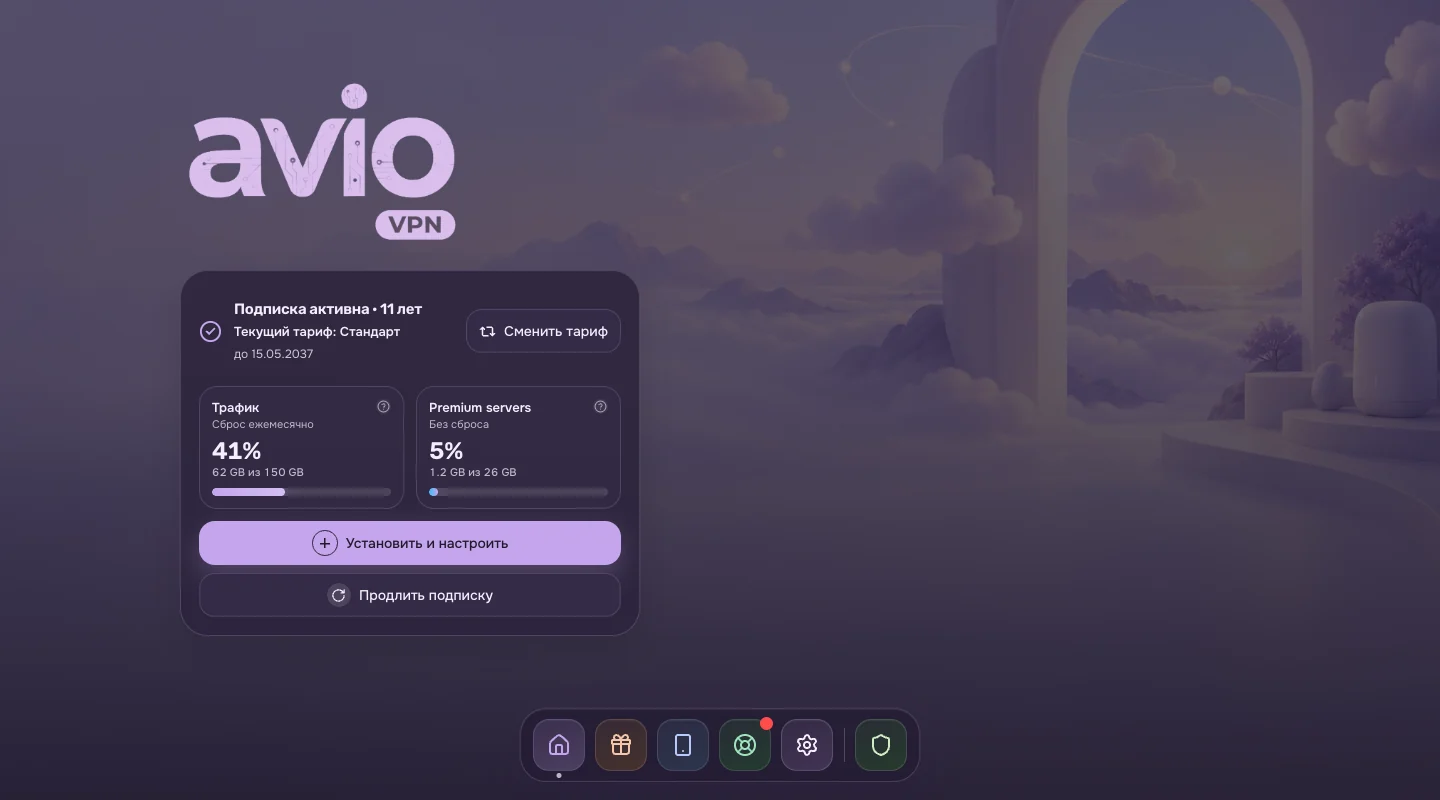
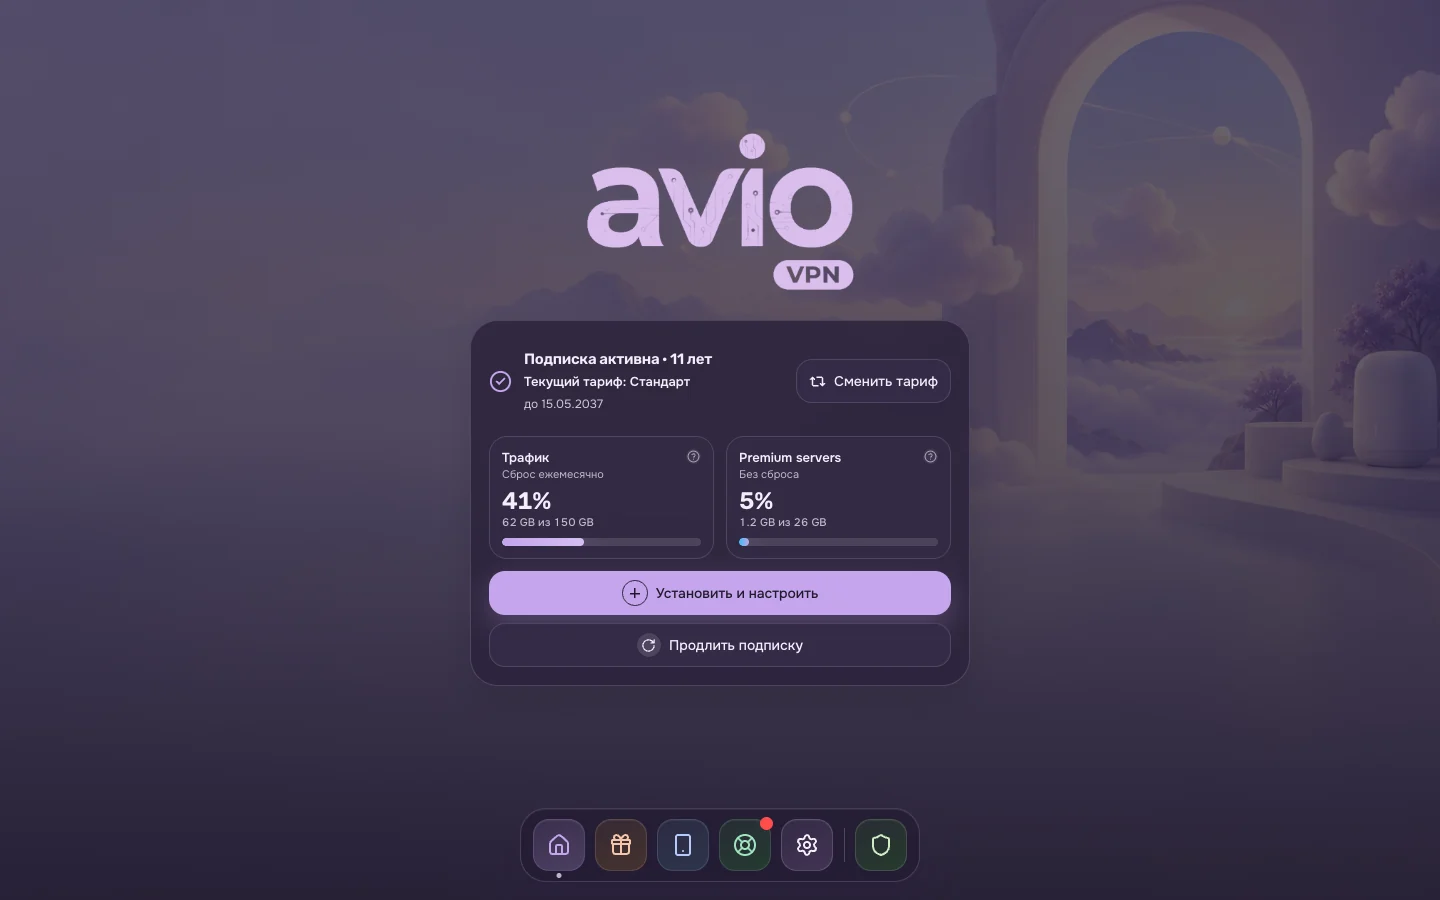
Avio Dock 1.8.1: centre home and sign-in on the dock axis
The left-aligned hero sat off the centred dock, so the interface read
as shifted left, most visibly on wide monitors.

diff --git a/style.css b/style.css
@@ -1667,8 +1667,8 @@ html.theme-key-avio-dock :is(.install-platform-item, .language-select-item, .sup
 /* ── 20. Avio Dock: navigation as a dock, screens as windows over the panorama ──
    Desktop (≥ 1024 px): Core turns the phone tab bar into a 250 px left rail. Here the
    same element becomes a floating dock at the bottom centre, the panorama gets the
-   full width, inner screens sit in one glass window, home is a left-aligned hero next
-   to the arch, and checkout slides in as a full-height sheet.
+   full width, inner screens sit in one glass window, home is centred on the dock's
+   axis, and checkout slides in as a full-height sheet.
    Phones keep their tab bar; the active tab takes the colour of its dock tile. */
 
 /* Tile colours, shared by the dock and the phone tab bar. */
@@ -1838,38 +1838,30 @@ html.theme-key-avio-dock :is(.install-platform-item, .language-select-item, .sup
     background: var(--border);
   }
 
-  /* Home: a left-aligned hero, so the arch on the right of the panorama stays open. */
+  /* Home: logo and subscription card on the dock's centre axis, gathered in the middle
+     of the screen instead of Core's logo-at-top, card-at-bottom split. */
   .theme-key-avio-dock .phone-screen.home-screen {
     padding-top: 36px;
   }
   .theme-key-avio-dock .home-layout {
-    width: min(100%, 1160px);
+    width: min(100%, 500px);
     min-height: calc(100dvh - 36px - 128px);
-    grid-template-columns: minmax(380px, 460px) minmax(0, 1fr);
+    grid-template-columns: minmax(0, 1fr);
     grid-template-rows: auto auto;
     align-content: center;
-    gap: 18px 0;
-  }
-  .theme-key-avio-dock .home-layout > * {
-    grid-column: 1;
+    justify-self: center;
+    gap: 18px;
   }
   .theme-key-avio-dock .home-layout > .home-brand {
     align-self: end;
-    justify-items: start;
-    text-align: left;
+    justify-items: center;
+    text-align: center;
     padding-block: 0;
   }
   .theme-key-avio-dock .home-bottom {
     align-self: start;
     justify-self: stretch;
     width: 100%;
-  }
-
-  /* Sign-in follows the same left line as the home hero. */
-  .theme-key-avio-dock .phone-screen.auth-screen {
-    margin-left: max(var(--desktop-page-gutter), calc((100vw - 1160px) / 2));
-    margin-right: auto;
-    padding-bottom: 16px;
   }
 
   /* Inner screens: one glass window. The glass is a pseudo-element so the window
